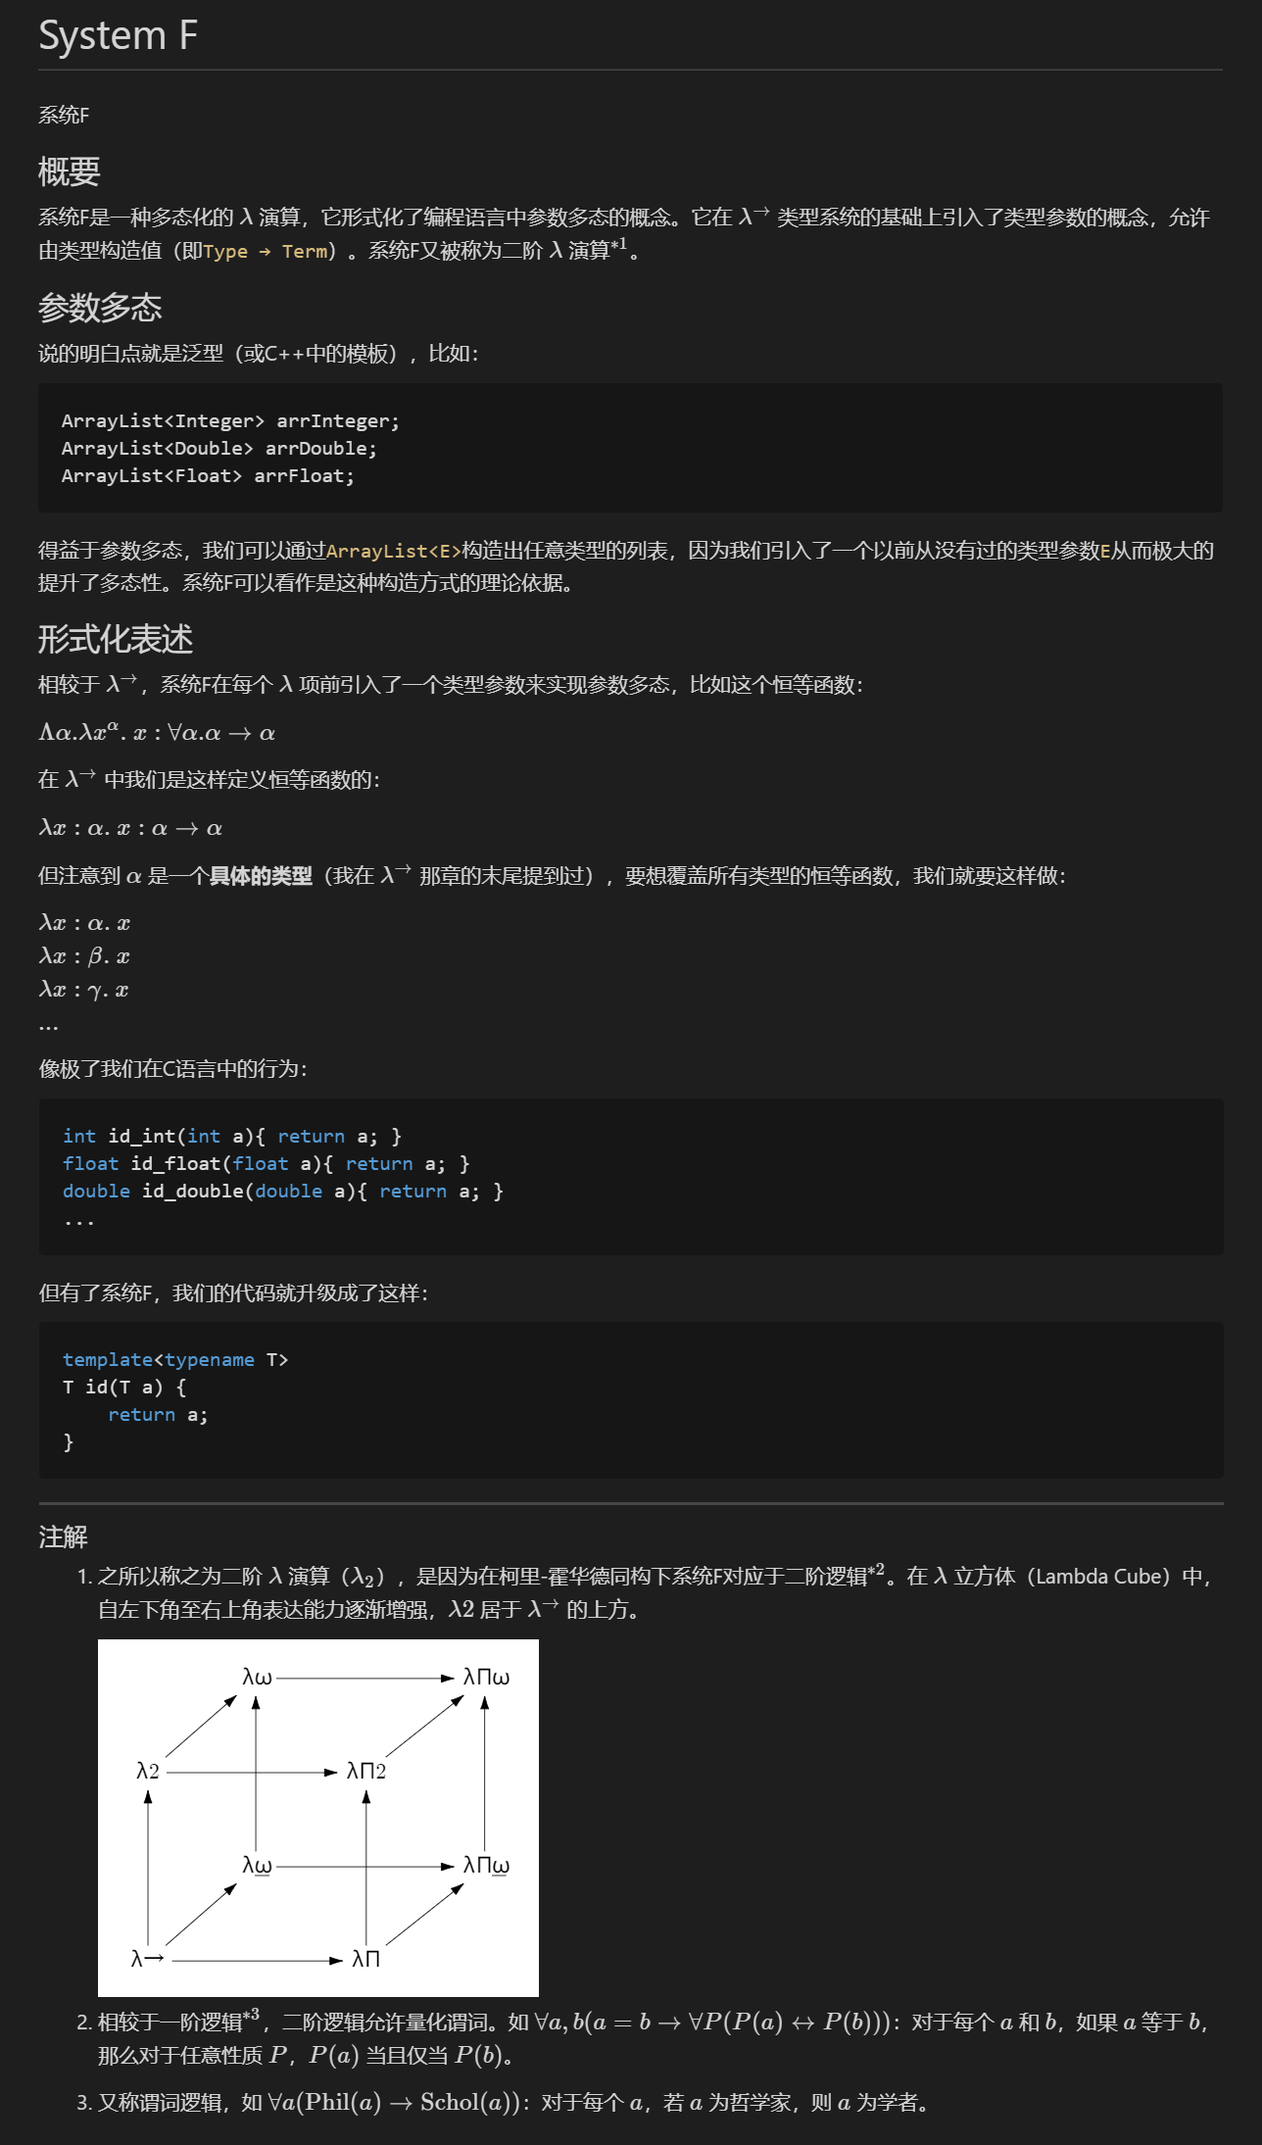
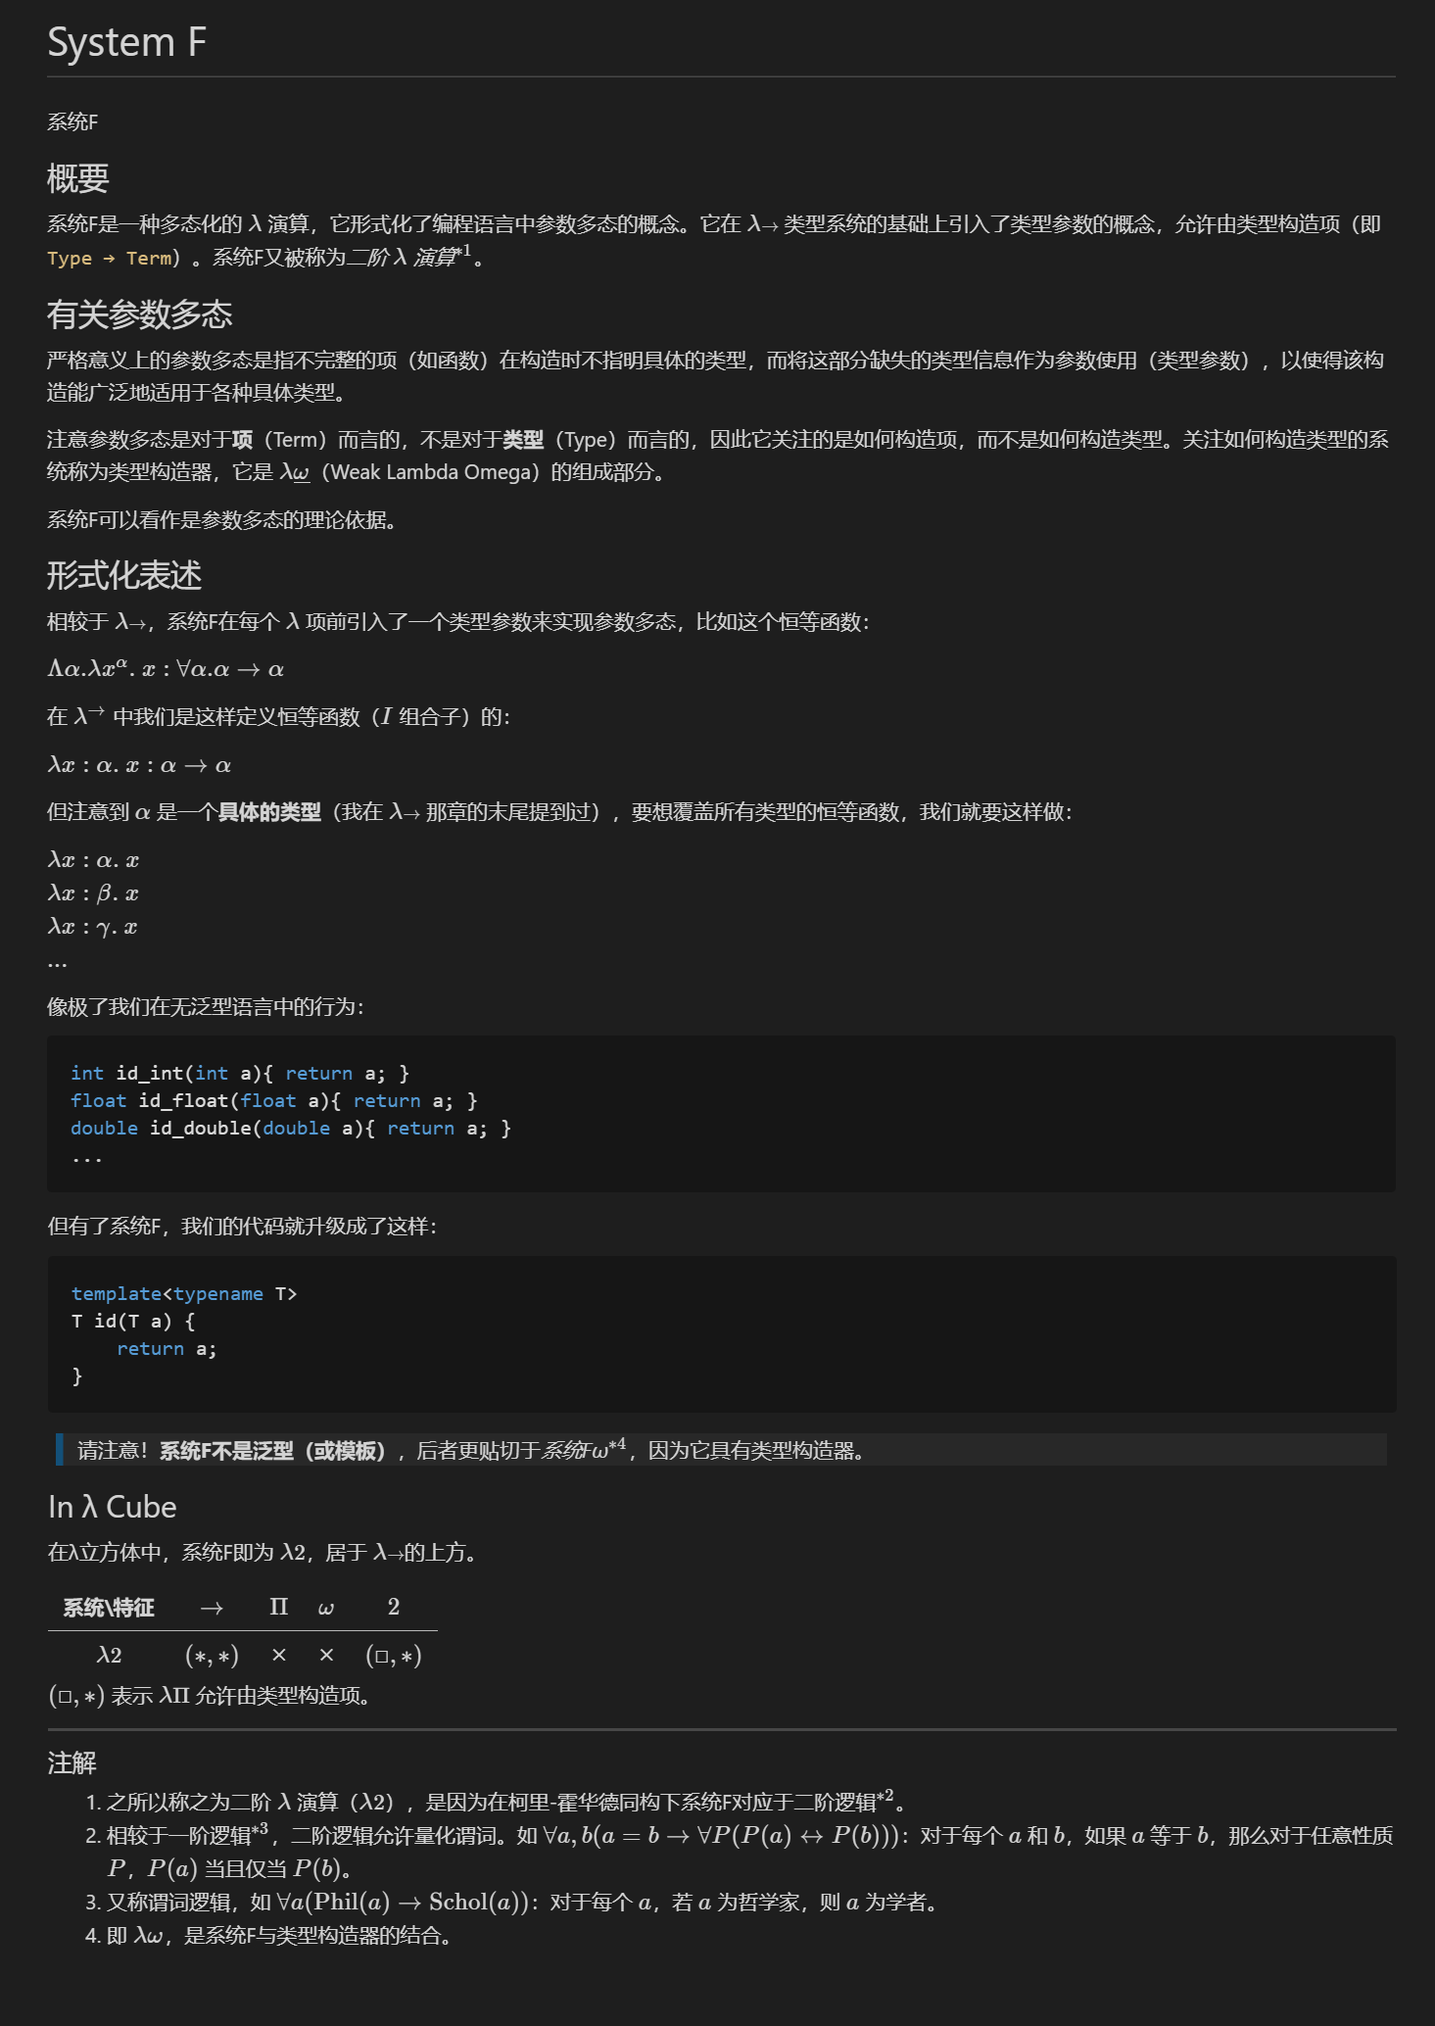
revise and Type Constructor
System F is wrong

diff --git a/C210607 - Computation Theory Intro/Type Constructor.md b/C210607 - Computation Theory Intro/Type Constructor.md
@@ -1,0 +1,108 @@
+# Type Constructor
+
+类型构造器
+
+## 概要
+
+类型构造器是一种用于构造类型的容器。类型构造器往往缺少一个至多个类型参数（Type parameter），而通过传入这些类型参数，我们可以构造出具体的类型（Specific type）。
+
+## 类型构造器与值构造器
+
+在命令式语言中，类型构造器和值构造器（Value constructor）通常是混为一谈的。
+
+例如`ArrayList<E>`：
+
+```Java
+ArrayList<Integer> list = new ArrayList<Integer>() {{
+    add(1);
+    add(2);
+    add(3);
+}};
+```
+
+所谓的`ArrayList<Integer>`，是由类型构造器`ArrayList<E>`通过接收一个类型参数`Integer`而产生的具体类型，而`[1,2,3]`（伪代码）是这个具体类型的值。既然类型都有构造器，那值的构造器去哪了？  
+实际上值构造器被隐藏在`ArrayList<E>`的具体实现里了，也就是说`ArrayList<E>`的具体实现就是它的值构造器。
+
+更进一步地，对于相同的类型，它的类型构造器只能有一个，而值构造器可以有多个。不同的值构造器可以构造出不同的值，但这些值的类型都是其对应的类型构造器构造出的具体类型。
+
+这是什么意思呢？请看这个类型构造器`Tree`：
+
+```Java
+class Tree {}
+class Node extends Tree {}
+class Leaf extends Tree {}
+```
+
+`Node`和`Leaf`可以看作是类型构造器`Tree`的值构造器，它们可以构造出Node类型的值，也可以构造出Leaf类型的值，但这些值也都是Tree类型的。同样地，值构造器也可以具有参数（值参数），比如我们给Leaf的构造函数增加一个参数：
+
+```Java
+class Leaf extends Tree {
+    private int val;
+    public Leaf(int val) {
+        this.val = val;
+    }
+}
+```
+
+我们可以构造代数（Algebra）的值构造器（如具有无参构造函数的Leaf），也可以构造函数的值构造器（如具有具参构造函数的Leaf）。
+
+## 更进一步的思考
+
+仔细想想，实际上值和函数没有什么区别，只不过前者是无参的，也是自调用（Self invoking）的。  
+实际上函数和值构造器也没什么区别，因为它们都接收值，并且产生值。
+
+于是我们可以想象，值和值构造器应该也没有区别！
+
+```Java
+ArrayList<Integer> list = new ArrayList<Integer>();
+```
+
+在以上代码中，我们用类型构造器`ArrayList<E>`和所需的类型参数`Integer`构造了类型`ArrayList<Integer>`，并用其对应的类型构造器构造了一个值（空列表）。
+
+那么对于`int i = 1;`，我们使用类型构造器`int`（只不过是无参的而已）构造了类型`int`，使用对应的值构造器构造了值`1`。而这个值`1`的值构造器实际上就是`1`，就像值`Leaf`的值构造器实际上就是`Leaf`一样（在构造函数无参的情况下）。
+
+显然值构造器和值在某种层面上是一致的，这个层面就是**类型**（Type）。类型是为了描述值$^{*1}$而存在的。
+
+甚至你可能有这样一种感觉：实际上类型构造器与函数也没什么区别，只不过它是类型层面上的函数而已。  
+如果把类型比作值，把类型构造器比作值构造器，那么我们也可以发现在某种层面上（例如无参的类型构造器）类型和类型构造器也具有一致性。
+
+这种一致性由**阶**（Kind）来描述。  
+
+对于一个具体的类型，它的阶是 $*$，而对于一个需要有一个类型参数才能构造完全的类型（如`ArrayList<E>`），它的阶是 $*→*$，以此类推。
+
+## 高阶函数与高阶类型
+
+高阶函数是以函数为参数的函数，例如：  
+$λf:α→β.\ λx:α.\ f\ x\ :\ (α→β)→β$
+
+高阶类型其实和高阶函数是统一的，只不过它是站在Kind的层次上。  
+$ΛF:*→*.\ ΛX:*.\ F\ X\ :\ (*→*)→*$
+
+比如在高阶类型那一章我们构造的（实际上它是一个值构造器）：
+
+```Java
+public <T<_>> T<Integer> getIntContainer()
+{
+    return new T<Integer>();
+}
+```
+
+它的类型构造器是：$ΛT:*→*.\ T\ int\ :\ (*→*)→*$
+
+如果我们给它类型参数`ArrayList<E>`，那么首先它的类型构造器会构造出类型`ArrayList<Integer>`，接着该类型的值构造器将构造出一个值，它是一个可存放`Integer`的空列表。
+
+## In λ Cube
+
+在λ立方体中，类型构造器即为 $λ\underline{ω}$（Weak Lambda Omega），在 $λ\scriptsize{→}$的后面。
+
+|    系统\特征     |   $→$   |  $Π$  |   $ω$   |  $2$  |
+| :--------------: | :-----: | :---: | :-----: | :---: |
+| $λ\underline{ω}$ | $(*,*)$ |   ╳   | $(□,□)$ |   ╳   |
+
+$(□,□)$ 表示 $λ\underline{ω}$ 允许由类型构造类型。
+
+---
+
+### 注解
+
+1. 广义的值，一切具有类型的东西，都是值。

diff --git a/C210607 - Computation Theory Intro/System F.md b/C210607 - Computation Theory Intro/System F.md
@@ -4,38 +4,34 @@
 
 ## 概要
 
-系统F是一种多态化的 $λ$ 演算，它形式化了编程语言中参数多态的概念。它在 $λ^{→}$ 类型系统的基础上引入了类型参数的概念，允许由类型构造值（即`Type → Term`）。系统F又被称为二阶 $λ$ 演算$^{*1}$。
+系统F是一种多态化的 $λ$ 演算，它形式化了编程语言中参数多态的概念。它在 $λ\scriptsize{→}$ 类型系统的基础上引入了类型参数的概念，允许由类型构造项（即`Type → Term`）。系统F又被称为*二阶 $λ$ 演算*$^{*1}$。
 
-## 参数多态
+## 有关参数多态
 
-说的明白点就是泛型（或C++中的模板），比如：
+严格意义上的参数多态是指不完整的项（如函数）在构造时不指明具体的类型，而将这部分缺失的类型信息作为参数使用（类型参数），以使得该构造能广泛地适用于各种具体类型。
 
-```Java
-ArrayList<Integer> arrInteger;
-ArrayList<Double> arrDouble;
-ArrayList<Float> arrFloat;
-```
+注意参数多态是对于**项**（Term）而言的，不是对于**类型**（Type）而言的，因此它关注的是如何构造项，而不是如何构造类型。关注如何构造类型的系统称为类型构造器，它是 $λ\underline{ω}$（Weak Lambda Omega）的组成部分。
 
-得益于参数多态，我们可以通过`ArrayList<E>`构造出任意类型的列表，因为我们引入了一个以前从没有过的类型参数`E`从而极大的提升了多态性。系统F可以看作是这种构造方式的理论依据。
+系统F可以看作是参数多态的理论依据。
 
 ## 形式化表述
 
-相较于 $λ^{→}$，系统F在每个 $λ$ 项前引入了一个类型参数来实现参数多态，比如这个恒等函数：
+相较于 $λ\scriptsize{→}$，系统F在每个 $λ$ 项前引入了一个类型参数来实现参数多态，比如这个恒等函数：
 
 $Λα.λx^α.\ x:∀α.α→α$
 
-在 $λ^{→}$ 中我们是这样定义恒等函数的：
+在 $λ^{→}$ 中我们是这样定义恒等函数（$I$ 组合子）的：
 
 $λx:α.\ x:α→α$
 
-但注意到 $α$ 是一个**具体的类型**（我在 $λ^{→}$ 那章的末尾提到过），要想覆盖所有类型的恒等函数，我们就要这样做：
+但注意到 $α$ 是一个**具体的类型**（我在 $λ\scriptsize{→}$ 那章的末尾提到过），要想覆盖所有类型的恒等函数，我们就要这样做：
 
 $λx:α.\ x$  
 $λx:β.\ x$  
 $λx:γ.\ x$  
 $...$
 
-像极了我们在C语言中的行为：
+像极了我们在无泛型语言中的行为：
 
 ```C
 int id_int(int a){ return a; }
@@ -53,13 +49,23 @@ T id(T a) {
 }
 ```
 
+> 请注意！**系统F不是泛型（或模板）**，后者更贴切于*系统Fω*$^{*4}$，因为它具有类型构造器。
+
+## In λ Cube
+
+在λ立方体中，系统F即为 $λ\small{2}$，居于 $λ\scriptsize{→}$的上方。
+
+|  系统\特征   |   $→$   |  $Π$  |  $ω$  |   $2$   |
+| :----------: | :-----: | :---: | :---: | :-----: |
+| $λ\small{2}$ | $(*,*)$ |   ╳   |   ╳   | $(□,*)$ |
+
+$(□,*)$ 表示 $λ\small{Π}$ 允许由类型构造项。
+
 ---
 
 ### 注解
 
-1. 之所以称之为二阶 $λ$ 演算（$λ_2$），是因为在柯里-霍华德同构下系统F对应于二阶逻辑$^{*2}$。在 $λ$ 立方体（Lambda Cube）中，自左下角至右上角表达能力逐渐增强，$λ2$ 居于 $λ^{→}$ 的上方。
-
-    <img style="background:white;" src="resources/lambda_cube.svg" width="300px">
-
+1. 之所以称之为二阶 $λ$ 演算（$λ\small{2}$），是因为在柯里-霍华德同构下系统F对应于二阶逻辑$^{*2}$。
 2. 相较于一阶逻辑$^{*3}$，二阶逻辑允许量化谓词。如 $∀a,b(a=b→∀P(P(a)↔P(b)))$：对于每个 $a$ 和 $b$，如果 $a$ 等于 $b$，那么对于任意性质 $P$，$P(a)$ 当且仅当 $P(b)$。
 3. 又称谓词逻辑，如 $∀a({\text{Phil}}(a)→{\text{Schol}}(a))$：对于每个 $a$，若 $a$ 为哲学家，则 $a$ 为学者。
+4. 即 $λω$，是系统F与类型构造器的结合。

diff --git a/C210607 - Computation Theory Intro/Dependent Type.md b/C210607 - Computation Theory Intro/Dependent Type.md
@@ -16,19 +16,18 @@
 
 某种程度上来讲，依赖类型很像是给一个集合标上了索引。
 
-## 形式化定义
+## 形式化表述
 
 依赖数据类型主要有以下两种，它们分别是对积类型与和类型的更为一般的抽象。
 
 ### $Π$-类型
 
 **$Π$-类型**（Pi-Type），又被称为依赖乘积类型或依赖函数类型，它是对多态函数的抽象。  
-对于全类$^{*2}$ $\mathcal {U}$ 中的某一类型 $A:\mathcal {U}$，有一类型族 $B:A→\mathcal {U}$，则可称该类型族 $B$ 为依赖函数类型，因为其值域是随着参数而变化的（这意味着它没有一个固定的*陪域*$\ ^{*3}$），可记为：
+对于*全类*$^{*2}$ $\mathcal {U}$ 中的某一类型 $A:\mathcal {U}$，有一类型族 $B:A→\mathcal {U}$，则可称该类型族 $B$ 为依赖函数类型，因为其值域是随着参数而变化的（这意味着它没有一个固定的*陪域*$\ ^{*3}$），可记为：
 
-$Π_{x:A}B(x)$
+&emsp;&emsp;$Π_{x:A}B(x)$
 
-特别地，当 $B$ 为常值函数，依赖函数类型将退化为一般函数（乘积）类型，即类型 $Π_{x:A}B$ 与类型 $A→B$ 等价。
-
+特别地，当 $B$ 为常值函数，依赖函数类型将退化为一般函数（乘积）类型，即类型 $Π_{x:A}B$ 与类型 $A→B$ 等价。  
 例如，将自然数映射到实数的函数 $Π_{x:\mathbb{N} }\mathbb{R}$ 就是依赖函数类型的一个特例：函数的返回类型不因 $x$ 的类型而改变。
 
 ### $Σ$-类型
@@ -36,19 +35,26 @@ $Π_{x:A}B(x)$
 **$Σ$-类型**（Sigma-Type），又被称为依赖总和类型或依赖数对类型，它捕获了对有序数对的抽象。  
 相似地，对于 $\mathcal {U}$ 中的某一类型 $A:\mathcal {U}$，有一类型族 $B:A→\mathcal {U}$，则可称该类型族 $B$ 为依赖总和类型，可记为：
 
-$Σ_{x:A}B(x)$
+&emsp;&emsp;$Σ_{x:A}B(x)$
 
-$Π$-类型也可以表示为一个有序对 $(a,b):Σ_{x:A}B(x)$，$b$ 的类型依赖于 $a$ 的值，即若 $a:A$ 则 $b:B(a)$。
-
+$Π$-类型也可以表示为一个有序对 $(a,b):Σ_{x:A}B(x)$，$b$ 的类型依赖于 $a$ 的值，即若 $a:A$ 则 $b:B(a)$。  
 特别地，当 $B$ 为常值函数，依赖总和类型将退化为一般乘积类型，即类型 $Σ_{x:A}B$ 与类型 $A→B$ 等价。
+
+> 我个人认为，在某种意义上，$Π$-类型是对多态函数的抽象，而$Σ$-类型是对归纳数据类型（如Church Encoding下的自然数）的抽象。
 
 ## 语言支持性
 
 由于依赖类型会给类型系统大大增加设计的复杂度$^{*4}$，所以多常见于面向证明（Proof Orinted）的语言中，如Agda、Coq、Idris、F*等。
 
-## Playground
+## In λ Cube
 
-Nothing to play with.
+在λ立方体中，依赖类型即为 $λ\small{Π}$，居于 $λ\scriptsize{→}$的右侧。
+
+|  系统\特征   |   $→$   |   $Π$   |  $ω$  |  $2$  |
+| :----------: | :-----: | :-----: | :---: | :---: |
+| $λ\small{Π}$ | $(*,*)$ | $(*,□)$ |   ╳   |   ╳   |
+
+$(*,□)$ 表示 $λ\small{Π}$ 允许由项构造类型。
 
 ---
 

diff --git a/C210607 - Computation Theory Intro/HKT.md b/C210607 - Computation Theory Intro/HKT.md
@@ -59,34 +59,34 @@ type<T<_>>
 考虑以下Java代码：
 
 ```Java
-public ArrayList<int> GetIntArrayList()
+public ArrayList<Integer> getIntArrayList()
 {
-    return new ArrayList<int>();
+    return new ArrayList<Integer>();
 }
-public HashSet<int> GetIntHashSet()
+public HashSet<Integer> getIntHashSet()
 {
-    return new HashSet<int>();
+    return new HashSet<Integer>();
 }
 ```
 
-上面的两个方法分别能够返回空的`ArrayList<int>`和`HashSet<int>`对象，但是如果我们需要更多类似于这样的函数，都要求它们能够返回一个包裹`int`的对象，例如`LinkedList<int>`、`TreeSet<int>`......显然我们不能写一一百个这样的不同名方法来支持这一百个不同类型的返回值类型，这太麻烦了，而且代码可读性不见得会很好。
+上面的两个方法分别能够返回空的`ArrayList<Integer>`和`HashSet<Integer>`对象，但是如果我们需要更多类似于这样的函数，都要求它们能够返回一个包裹`Integer`的对象，例如`LinkedList<Integer>`、`TreeSet<Integer>`......显然我们不能写一一百个这样的不同名方法来支持这一百个不同类型的返回值类型，这太麻烦了，而且代码可读性不见得会很好。
 
 高阶类型能解决这一问题。
 
 ```Java
-public <T<_>> T<int> GetIntContainer()
+public <T<_>> T<Integer> getIntContainer()
 {
-    return new T<int>();
+    return new T<Integer>();
 }
 ```
 
 现在，你只需要传入类型构造器即可获得相应的对象了：
 
 ```Java
-var arrayList = GetIntContainer<ArrayList>();//此处借鉴了C#的语法
-var linkedList = GetIntContainer<LinkedList>();
-var hashList = GetIntContainer<HashSet>();
-var treeList = GetIntContainer<TreeSet>();
+var arrayList = getIntContainer<ArrayList>();//此处借鉴了C#的语法
+var linkedList = getIntContainer<LinkedList>();
+var hashList = getIntContainer<HashSet>();
+var treeList = getIntContainer<TreeSet>();
 ...
 ...
 ```

diff --git a/C210607 - Computation Theory Intro/Lambda Calculus.md b/C210607 - Computation Theory Intro/Lambda Calculus.md
@@ -4,7 +4,7 @@
 
 ## 概要
 
-**λ - Calculus**（λ：\\'læmdə\）是一种研究函数的形式化系统，能表达任意类型的计算过程，因而具有图灵完备性，可看作最简单的程序设计语言。
+**λ - Calculus**（λ：\\'læmdə\）是一种研究函数的形式化系统，能表达任意类型的计算过程，因而具有图灵完备性，可看作最简单的程序设计语言。$λ$ 演算又称**无类型 $λ$ 演算**（Untyped Lambda Calculus，UTLC），因为它缺乏类型系统，所以表达能力有限。
 
 本文仅介绍无类型λ演算。
 
@@ -23,7 +23,7 @@ $λx.\ x+1$
 λ演算的函数应用表示为：  
 $(λx.\ x+1)\ a$
 
-括号是为了将函数体和参数 $a$ 区分开而添加的，所以该应用也可以表示为 $((λx.\ x+1))\ a$，若取 $a=2$，则该λ项的**归约**$^{*2}$结果为 $2$。由于 $a$ 是独立于λ项 $(λx.\ x+1)$ 而存在的，即它没有被绑定，所以被称作**自由变量**。
+括号是为了将函数体和参数 $a$ 区分开而添加的，所以该应用也可以表示为 $((λx.\ x+1))\ a$，若取 $a=2$，则该λ项的**归约**$^{*2}$结果为 $2$。由于 $a$ 是独立于 $λ$ 项 $(λx.\ x+1)$ 而存在的，即它没有被绑定，所以被称作**自由变量**。
 
 ## Playground
 

diff --git a/C210607 - Computation Theory Intro/README.md b/C210607 - Computation Theory Intro/README.md
@@ -5,3 +5,7 @@
 ## 课程概要
 
 由Thaumy开设的计算机理论课程，可以提升同学们的姿势水平。
+
+---
+
+**.png仅供参考**，实际内容以.md为准。
